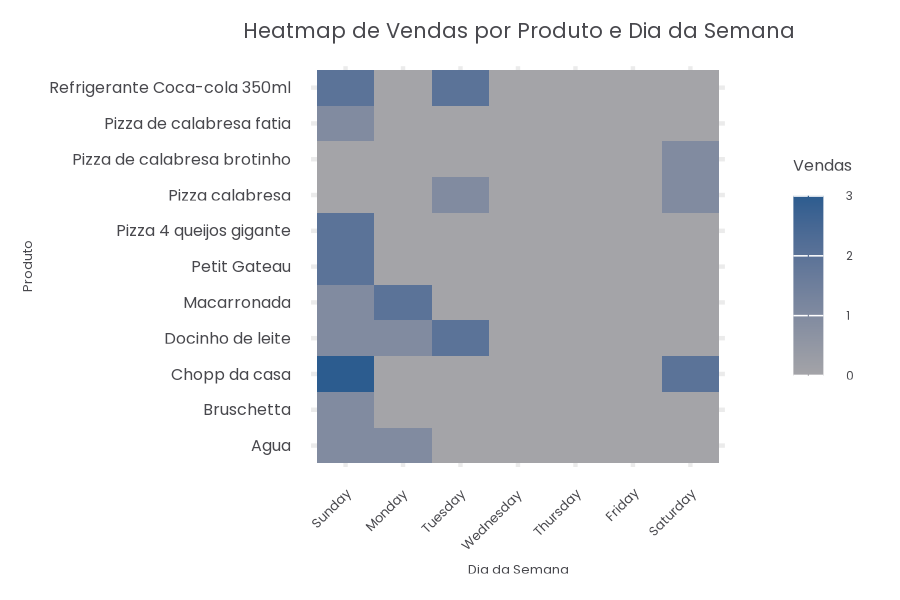
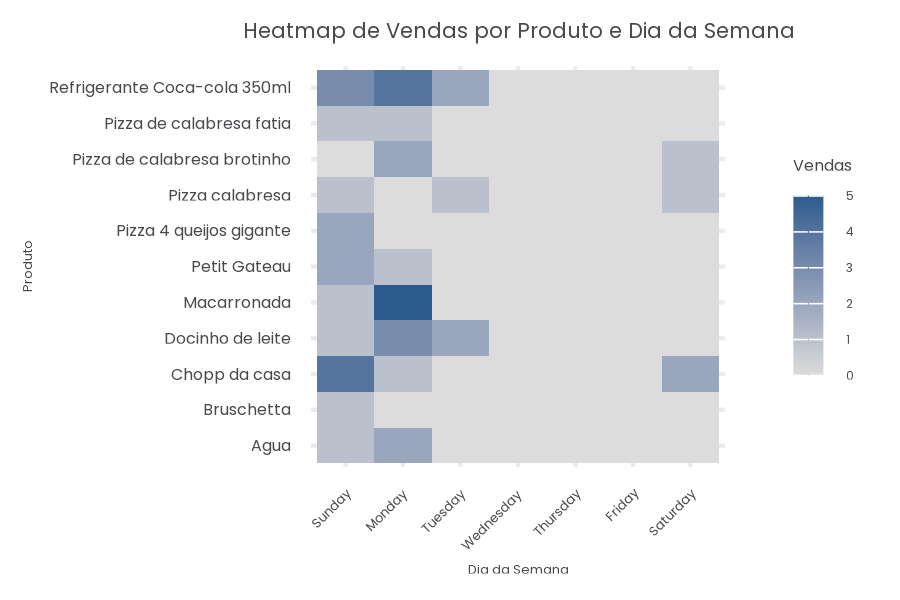
feat: Atualiza rota do heatmap

Changed region(s): [[0.3422, 0.09, 0.8089, 0.78], [0.8711, 0.42, 0.9333, 0.63]]

diff --git a/app/controllers/analysis_controller.rb b/app/controllers/analysis_controller.rb
@@ -67,8 +67,8 @@ class AnalysisController < ApplicationController
       # Gerando o heatmap
       p <- ggplot(data = melt(table_matrix), aes(x = Var2, y = Var1, fill = value)) +
         geom_tile() +
-        scale_fill_gradient(low = "#a4a4a8", high = "#2c5c8f") +
-        scale_fill_gradient(low = "#a4a4a8", high = "#2c5c8f", guide = guide_colorbar(barwidth = 0.5, barheight = 3, label.theme = element_text(size = 9, family = "poppins"))) +
+        scale_fill_gradient(low = "#DCDCDC", high = "#2c5c8f") +
+        scale_fill_gradient(low = "#DCDCDC", high = "#2c5c8f", guide = guide_colorbar(barwidth = 0.5, barheight = 3, label.theme = element_text(size = 9, family = "poppins"))) +
         labs(title = "Heatmap de Vendas por Produto e Dia da Semana",
              x = "Dia da Semana",
              y = "Produto",
@@ -102,7 +102,7 @@ class AnalysisController < ApplicationController
     # Formatando os dados para resposta JSON
     result = coord_df.map { |row| { product: row['Product'], coordinates: { Dim1: row['Dim1'], Dim2: row['Dim2'] } } }
 
-    render json: { result: result, plot_image: '/tmp/anacor_plot.png' }
+    render json: { result: result, plot_image: '/anacor_plot.png' }
   end
 end
 
